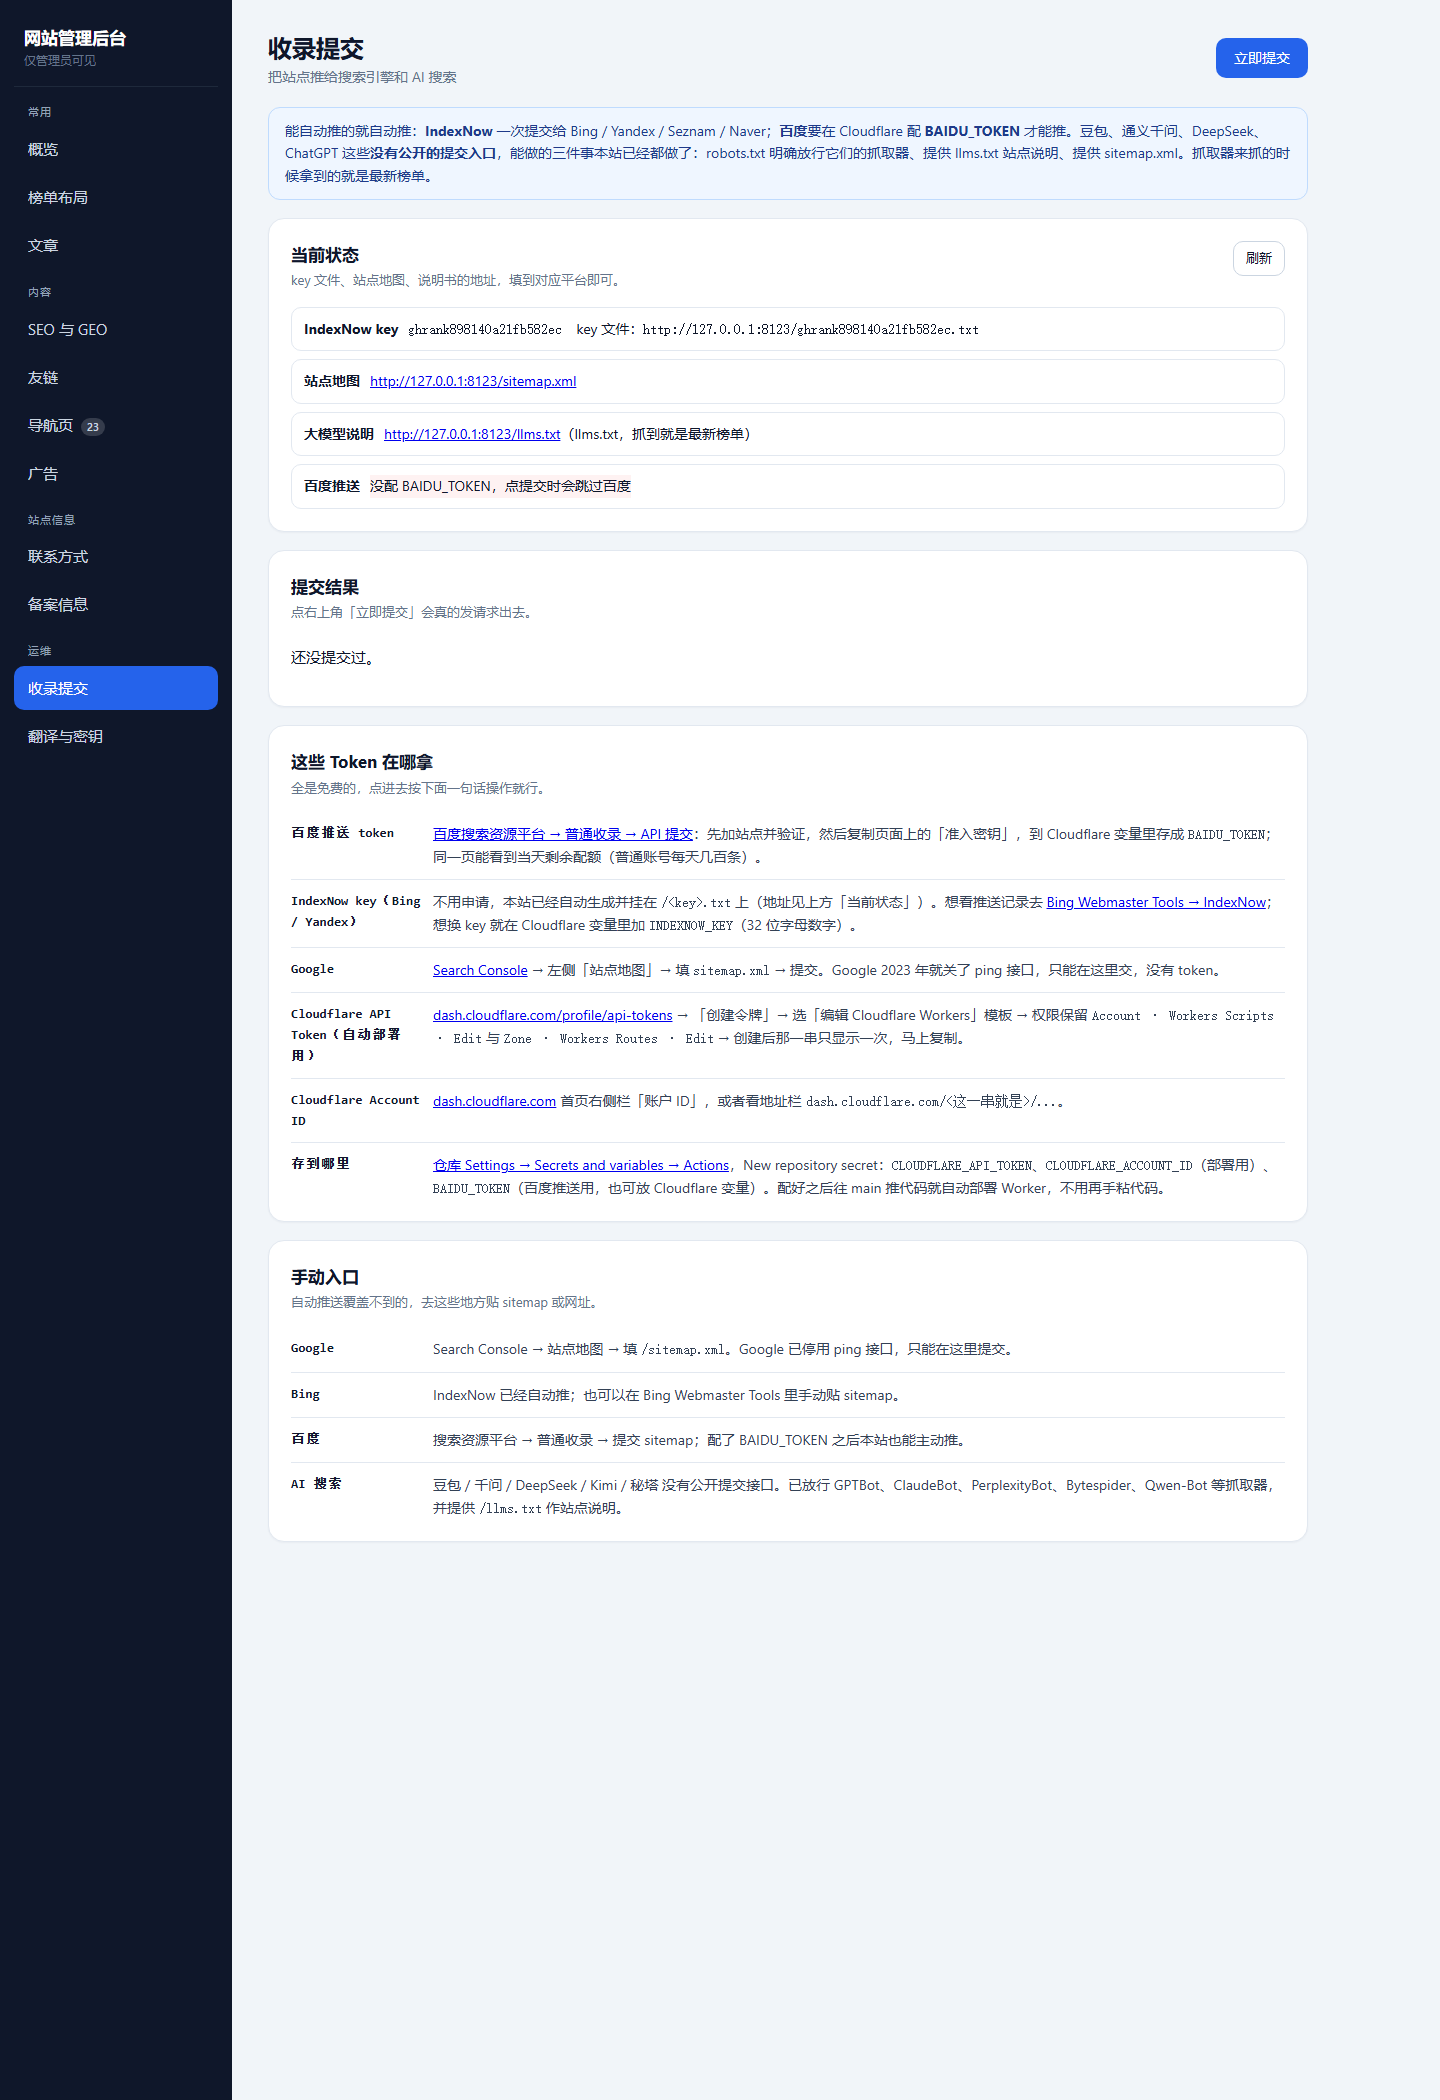
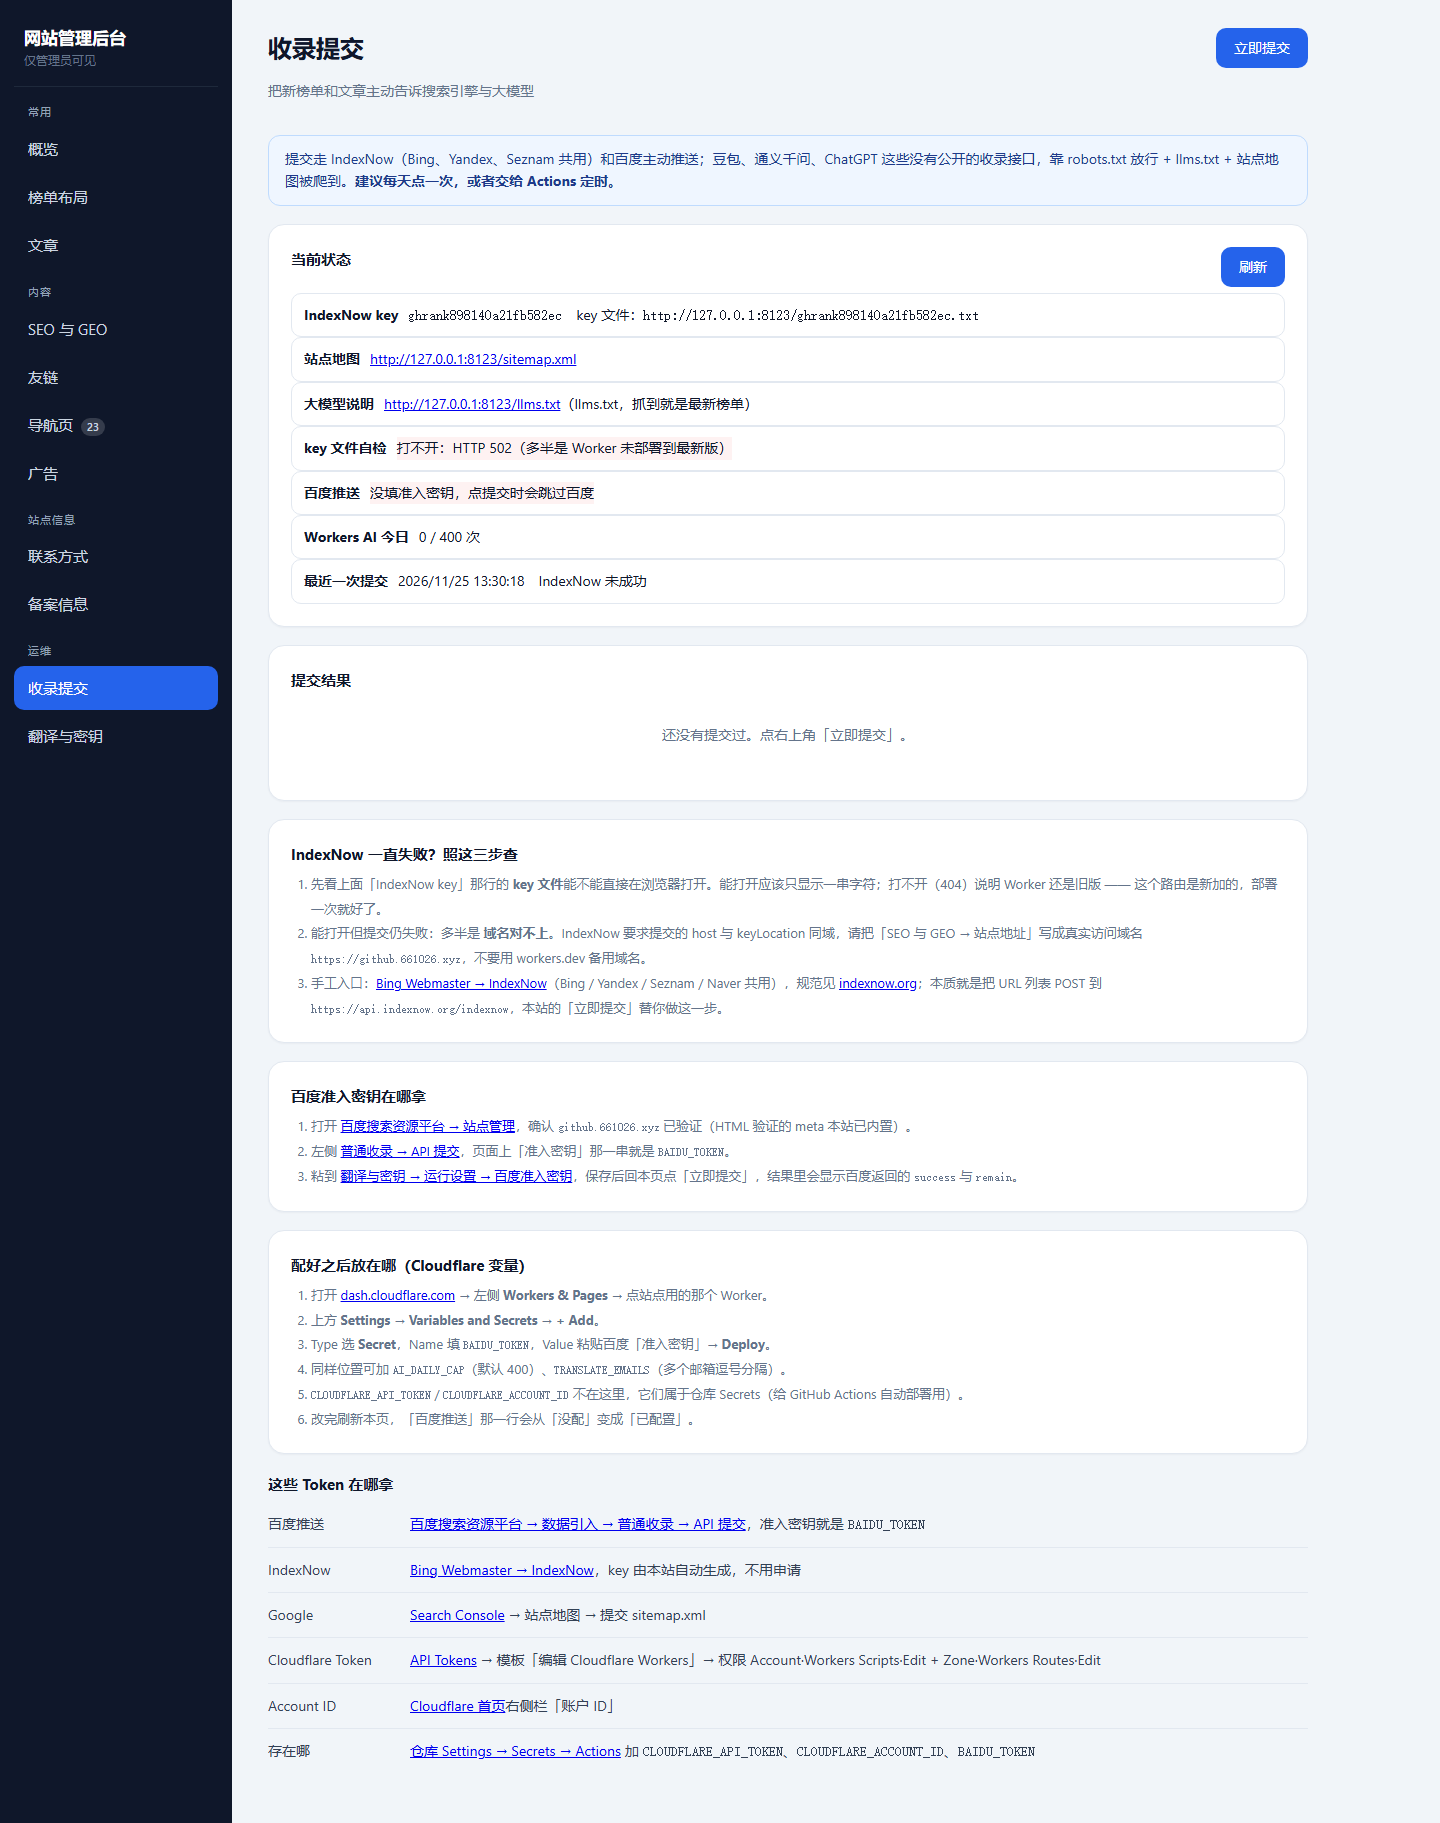
docs: 第 24 批记录（AI 用量 / 后台密钥 / IndexNow 排查 / llms.txt）
- 操作手册新增 §1.1.6：翻译链路怎么走、运行设置各字段含义、IndexNow 三步排查、百度密钥在哪拿、llms.txt 与 sitemap 说明
- 优化建议新增 §16：六项改动表 + 三个坑（siteRuntime 吃字段、自检桩不落盘、批量重命名改到字符串）
- 截图刷新：docs/shots/admin-submit.png（收录提交：状态含 key 文件自检与 AI 用量、两张教程卡）、新增 admin-translate.png（运行设置 + 用量 + 两个密钥输入）

diff --git a/docs/操作手册.md b/docs/操作手册.md
@@ -276,3 +276,47 @@ scripts/preview-admin.mjs  生成后台各面板的预览页（自动用 dev 密
 - 新增「导航页」：前台第二个标签（`/nav`、`/?page=nav`、`/#nav` 都能直接开），数据 `data/nav.json`；后台可加分类/站点，填网址点「自动获取」抓标题、描述、图标（后端 `/api/fetch-meta`，屏蔽内网地址）。
 - 新增「收录提交」：IndexNow 一键推送（Bing/Yandex/Seznam/Naver）、百度推送（配 `BAIDU_TOKEN`）、`/robots.txt` 放行 18 个 AI 爬虫、`/llms.txt` 站点说明书、`/sitemap.xml` 含文章锚点。
 - 修掉一个隐蔽的坑：`js/bundle.js` 初始化会重写地址栏，把 `#nav` / `?page=nav` 这类「意图」抹掉，导致直接打开导航页不生效。现在 `index.html` 在 `<head>` 里就把意图记到 `window.__wantNav`，并且 `bundle.js` 同步地址时会保留 `page=nav`。
+
+
+## 1.1.6 翻译额度与收录排查（第 24 批）
+
+### 翻译链路到底怎么走
+
+1. **先查译文缓存**：同一段英文只翻一次，命中缓存 0 成本、0 调用。
+2. **MyMemory**（免费、不需要 Key）：按「联系邮箱」算额度，不带邮箱每天 5 千字符、带邮箱 5 万字符；一个邮箱用尽自动换下一个。
+3. **Workers AI**（需要绑定，变量名必须是 `AI`）：前一条挂了才兜底，每天最多调用次数由后台控制，到上限自动停，不会把你的额度打光。
+
+后台「翻译与密钥 → 运行设置」里能改的：
+
+| 字段 | 说明 |
+| --- | --- |
+| MyMemory 联系邮箱 | 可留空（留空就用内置默认邮箱）；多个用逗号分隔，最多 20 个；点「按 +别名 生成 5 个」可把额度乘 6 |
+| Workers AI 每天最多调用多少次 | 0–100000，**0 = 不限制**，留空 = 用环境变量 `AI_DAILY_CAP` 或默认 400 |
+| 百度准入密钥 BAIDU_TOKEN | 可留空；填这里就不必去 Cloudflare 配变量 |
+| IndexNow Key | 可留空（自动用仓库信息生成 8–128 位） |
+
+页面上「Workers AI 今日」那一行会显示 **已用 / 上限 / 还剩**，据此调上限即可。也可以直接访问 `/api/ai-usage` 拿到同样的 JSON。
+
+> Workers AI 的免费额度是每天 10,000 Neurons。m2m100 这种小模型一次只消耗几十 neuron，400 次大约几百，远没到线；建议设 2000–5000，仍然在免费范围内。
+
+### 收录提交：为什么一直失败
+
+后台「收录提交」页现在有「key 文件自检」一行，先看它：
+
+- **能访问** → key 没问题，失败就查域名：「SEO 与 GEO → 站点地址」必须是真实访问域名（`https://github.661026.xyz`），不能是 `workers.dev` 备用域名，否则 IndexNow 判 host 不一致。
+- **打不开（404）** → Worker 还没部署到最新版，重新粘贴 `worker.js` 部署一次。
+- **打不开（502 等）** → 边缘/回源一时抖动，过几分钟再点「刷新」。
+
+手工入口：<https://www.bing.com/webmasters/indexnow>（Bing / Yandex / Seznam / Naver 共用），规范 <https://www.indexnow.org/documentation>。
+
+### 百度准入密钥在哪拿
+
+1. <https://ziyuan.baidu.com/site/index> → 确认 `github.661026.xyz` 已验证（HTML 验证的 meta 本站已内置）。
+2. 左侧「普通收录 → API 提交」，页面上的「准入密钥」就是 `BAIDU_TOKEN`。
+3. 粘到「翻译与密钥 → 运行设置 → 百度准入密钥」，保存后回「收录提交」点「立即提交」，结果里会显示百度返回的 `success` 与 `remain`。
+
+### llms.txt 里写了什么
+
+`/llms.txt` 现在是给大模型看的站点说明：核心页面（首页 / 导航 / 文章，含单篇地址规则）、数据来源与口径（时间范围、星标门槛、刷新频率、缓存）、机器可读接口清单（`/data/*.js`、`/api/status`、`/sitemap.xml`）、引用与抓取建议。改了站点名或简介会跟着变。
+
+`/sitemap.xml` 覆盖首页、导航页、文章页与每篇文章（带 `lastmod`）。它本来就是合法 XML，浏览器直接打开是源码，看渲染效果请用「查看页面源代码」或在「收录提交」页点链接。

diff --git a/docs/优化建议.md b/docs/优化建议.md
@@ -315,3 +315,21 @@ node scripts/check-worker.mjs      # 本地模拟 Workers 运行时，30+ 项断
 
 **这次补丁脚本踩的坑（值得记住）**：`worker.js` 是 CRLF，补丁脚本如果先把整份源码 `replace(/\r\n/g,'\n')` 归一化、却把 `find` 字符串按 CRLF 生成，就会「命中 0 次」；另外 `checkSection` 结尾那个 `}` 是**两个空格缩进**的（`  }`），锚点写成顶格 `}` 同样命中 0 次。补丁脚本要：① 读入后立刻归一化成 LF，`find`/`repl` 全用 LF 字面量；② 写回时按原文件是否 CRLF 决定是否转回；③ 每个 op 断言「恰好命中 1 次」，失败就中止且不写文件。
 
+
+## 16. 第 24 批：AI 用量 / 后台填密钥 / IndexNow 自检 / llms.txt
+
+| 项 | 做法 | 效果 |
+| --- | --- | --- |
+| AI 用量可见 | 新增 `aiUsage()` 与 `/api/ai-usage`，后台「运行设置」显示 已用 / 上限 / 还剩 | 不用再猜额度，按用量调上限 |
+| 邮箱可不填 | `mmEmails()` 无配置时自动生成「基础邮箱 + \`+1..+5\` 别名」共 6 个 | 额度乘 6，且一个用尽自动换下一个 |
+| 密钥搬进后台 | `runtime.baiduToken` / `runtime.indexNowKey`，保存即时生效（清 `/__runtime` 缓存） | 不必再去 Cloudflare 改变量 |
+| IndexNow 自检 | `handleSubmit` GET 里自己 fetch 一次 key 文件，返回 `keyFileOk/keyFileNote` | 直接看出是「没部署」还是「域名不一致」 |
+| 提交留痕 | 结果写进 `/__last_submit`（7 天），后台显示「最近一次提交」 | 下次打开就知道上回成没成 |
+| llms.txt 加厚 | 重写为 站点简介 / 核心页面 / 数据口径 / 机器可读接口 / 引用建议 | AI 检索器能抓到口径与接口 |
+| 后台教程 | 「收录提交」新增 IndexNow 三步排查 + 百度密钥三步获取，都带链接 | 用户不用再问「在哪」 |
+
+踩到的坑：
+
+- `siteRuntime()` 早期只回 `{aiCap, emails}`，**新增字段被它吃掉**，表现为「后台存了但用不上」。修法是抽 `normRuntime(j)` 统一归一化四个字段。
+- 自检桩不落盘，所以「保存后 GET 读回」永远读到旧值。要在桩里验证「后台的 key 真的被用上」，只能临时改写 `data/site.json` 再还原（`check-worker.mjs` §19 就是这么做的，`finally` 里 `store.clear()`）。
+- 重命名脚本把字符串里的 `llms.txt`、`keyFileOk` 一起改掉，导致断言假失败 —— 批量重命名要限定在标识符上，别对整块代码做 `split/join`。
